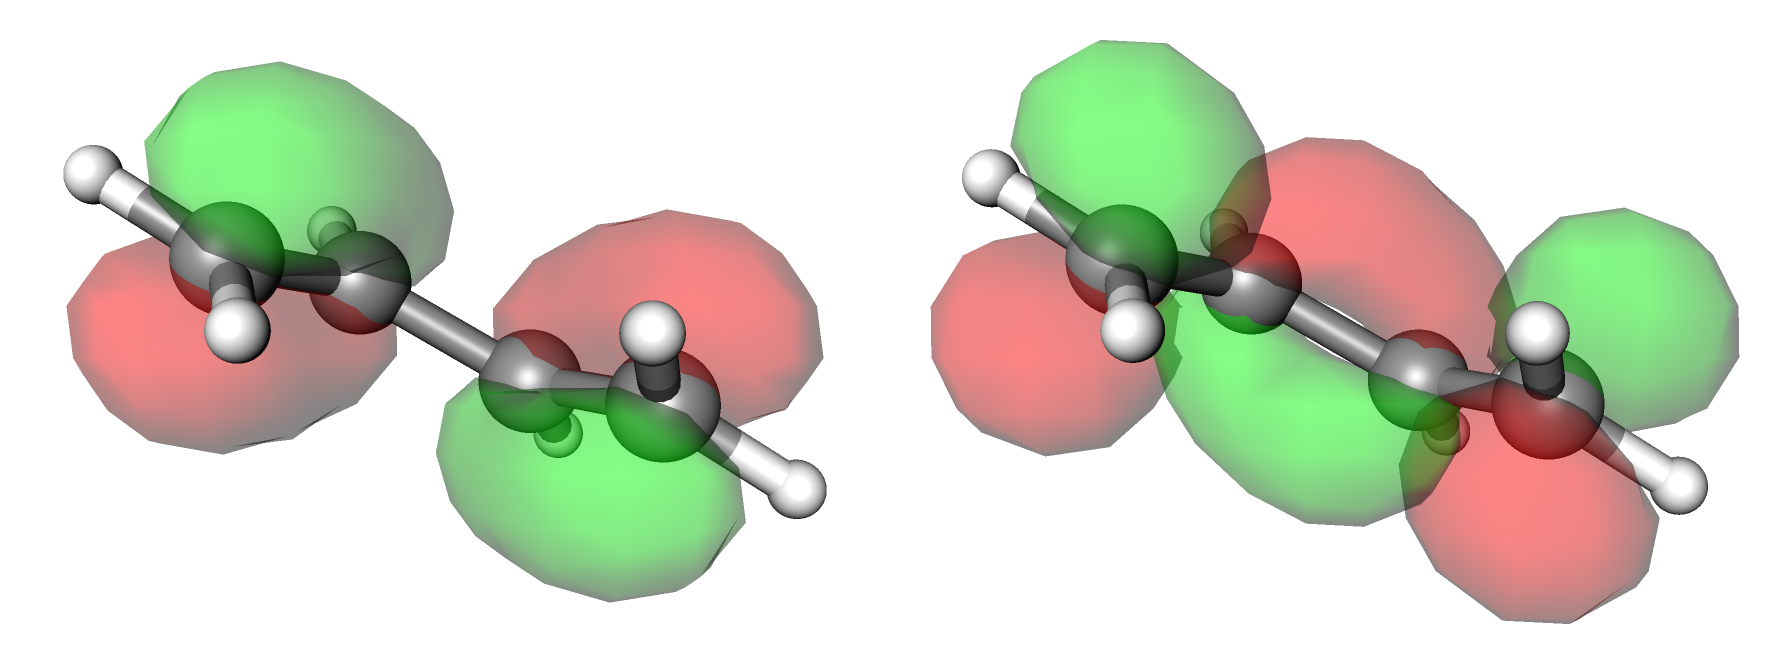
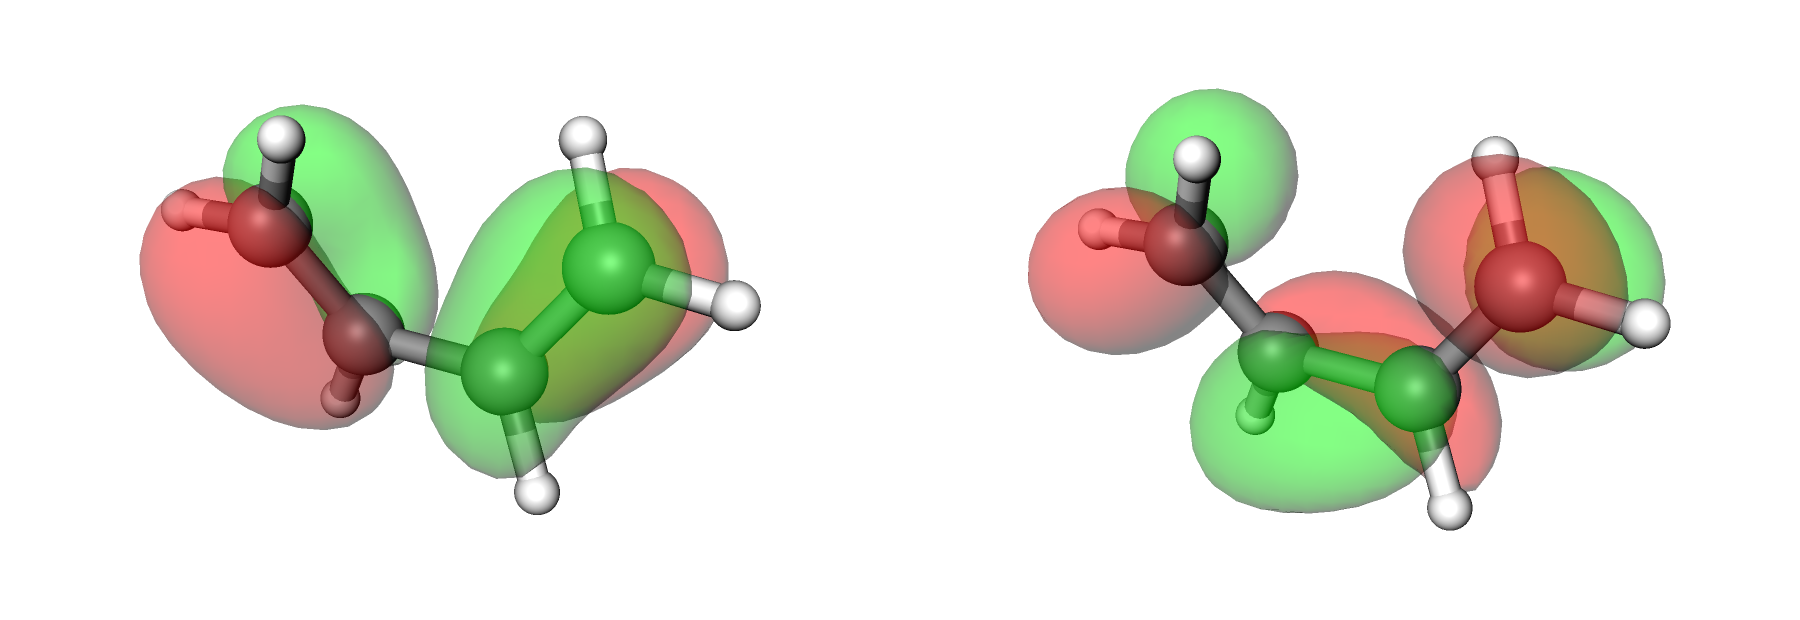
Density views: butadiene HOMO/LUMO retaken onto the chain, tilted 25 degrees from face-on; caption says where the nodes are
Claude-Session: https://claude.ai/code/session_01LPtdCqiFHmFNbScUSGgzbs

diff --git a/chapters/density-views.tex b/chapters/density-views.tex
@@ -56,7 +56,7 @@ The frontier orbitals tell a different story (figure~\ref{fig:dv-homo-lumo}). Th
 \begin{figure}[htbp]
 	\centering
 	\includegraphics[width=0.9\linewidth]{density-views/homo-lumo-scis.ecce-9.5.3-dev.png}
-	\caption{The HOMO (left, $\psi_2$) and the LUMO (right, $\psi_3$) of gauche butadiene, computed in the \menu{MOs} panel. The HOMO has its largest lobes on the terminal carbons and a node across the central bond.}
+	\caption{The HOMO (left, $\psi_2$) and the LUMO (right, $\psi_3$) of gauche butadiene, computed in the \menu{MOs} panel and seen from the same direction, onto the carbon chain with the molecule tilted about \ang{25} from face-on; the two colours are the two signs of the orbital. In the HOMO each half of the molecule, a terminal and a central carbon, carries one lobe of the same sign, and the sign changes across the central C2--C3 bond: there is a node between C2 and C3. In the LUMO the sign changes across each terminal bond, C1--C2 and C3--C4, and the two central carbons share one lobe across C2--C3.}
 	\label{fig:dv-homo-lumo}
 \end{figure}
 
